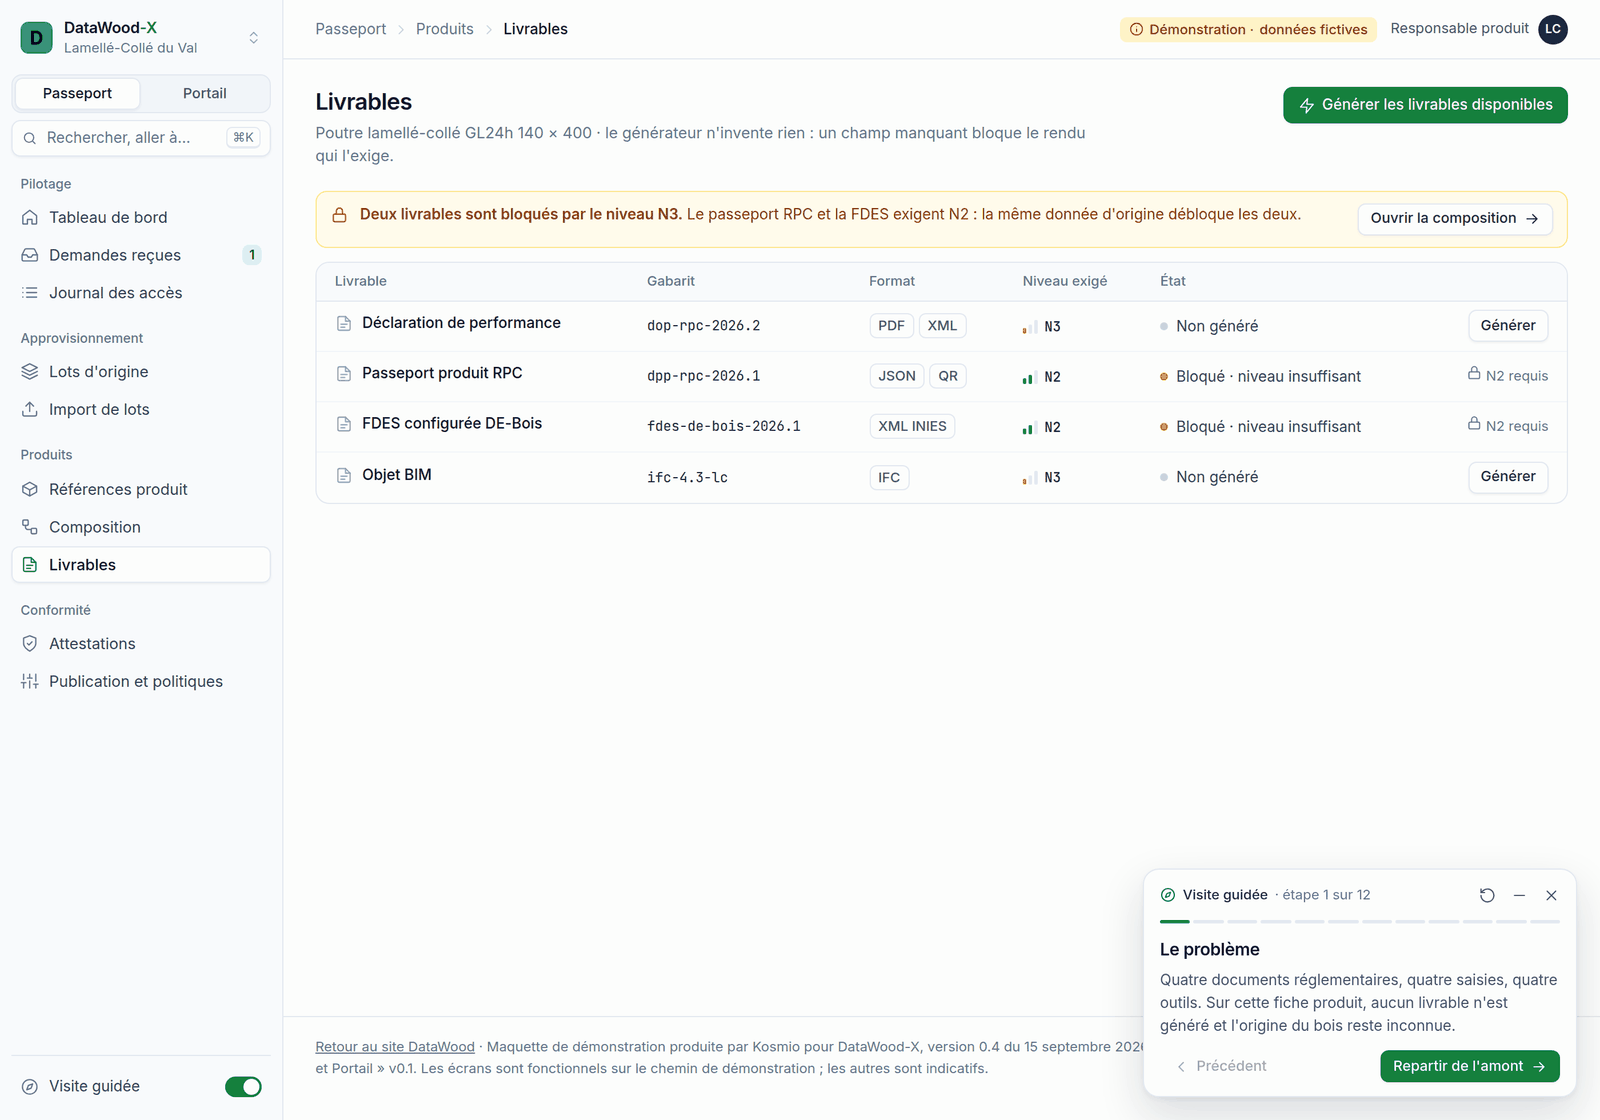
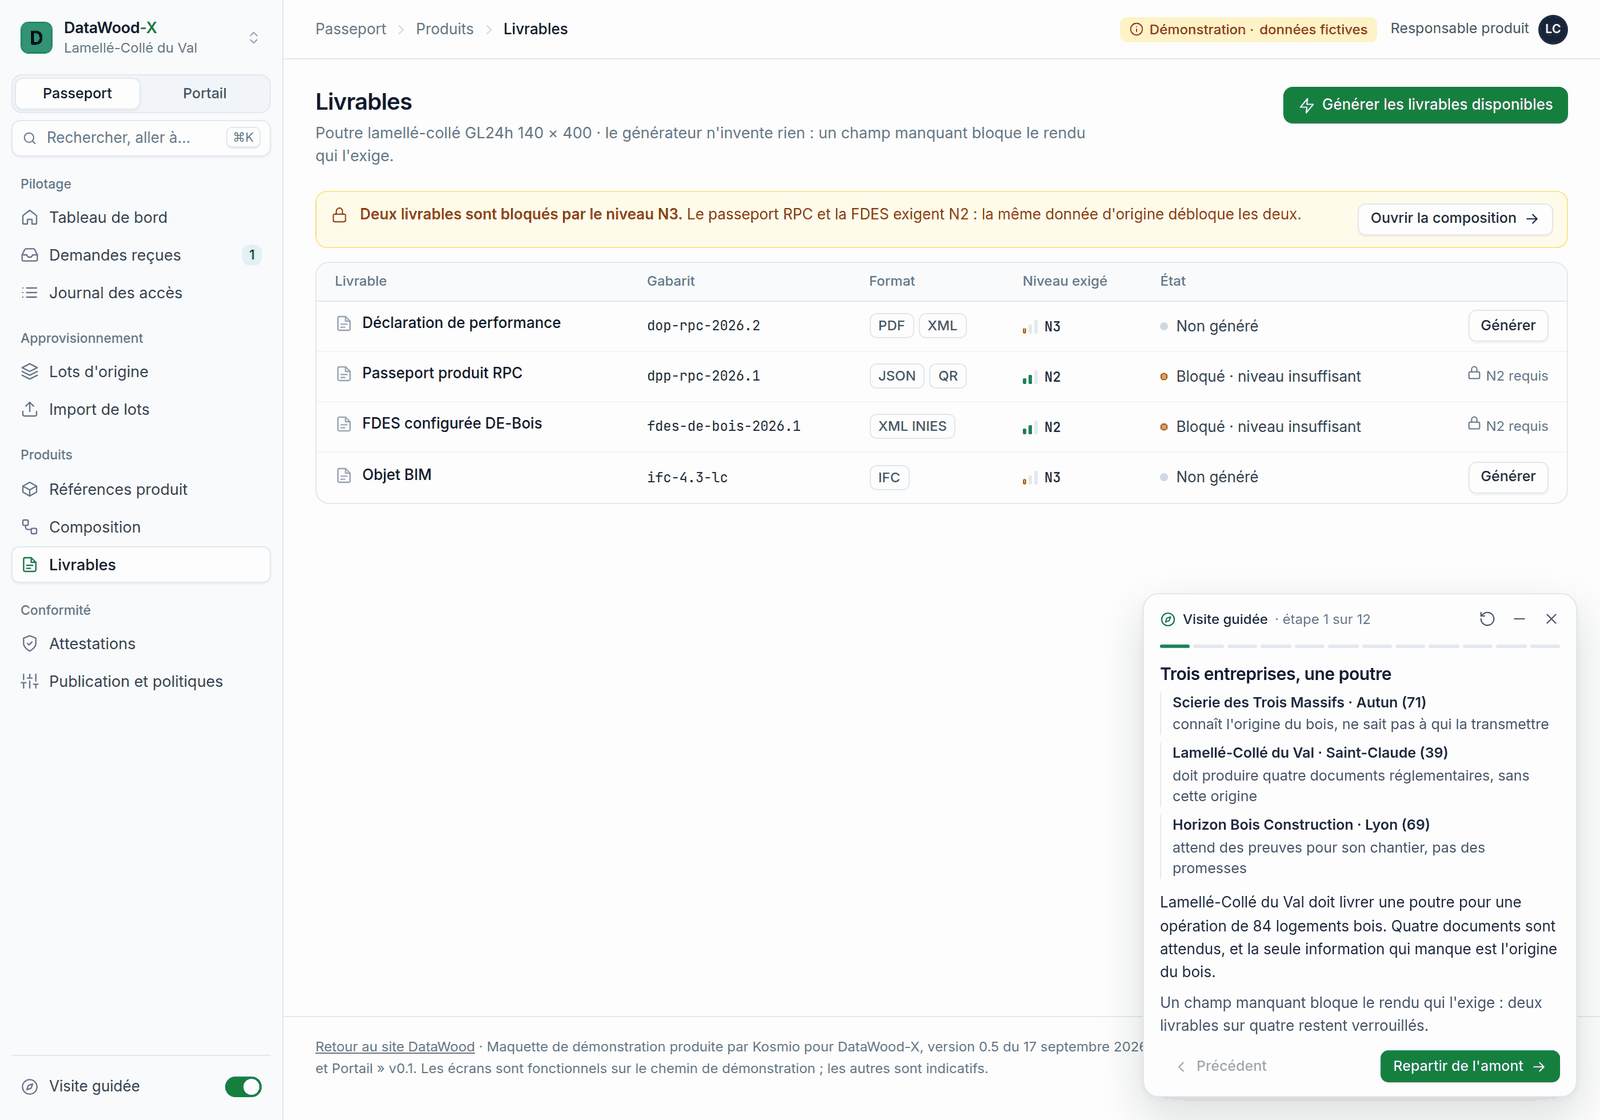
Maquette v0.5 : la visite guidee raconte une histoire
Chaque etape porte desormais une phrase de situation en plus de la phrase de mecanisme : ce que l entreprise cherche a faire, et pourquoi. Trois ajouts : une ouverture qui presente les trois entreprises et ce que chacune attend, une annonce explicite quand le scenario change d identite, et un recapitulatif en trois lignes a la derniere etape.

Premiere illustration de l article recapturee, c est la seule ou le panneau de visite est visible.

Claude-Session: https://claude.ai/code/session_01EpWU3hA9qwR9nfB4po22S2

Changed region(s): [[0.625, 0.5938, 0.9688, 0.9375], [0.7188, 0.5312, 0.8438, 0.5625]]

diff --git a/public/maquette/index.html b/public/maquette/index.html
@@ -459,6 +459,19 @@ h2.sec.sm{font-size:13px}
 .coach-b{padding:12px 14px 0;animation:rise var(--t3) var(--expo) both}
 .coach-b h2{font-size:15px;font-weight:600;letter-spacing:-.015em;margin:0 0 4px}
 .coach-b p{margin:0;font-size:13px;color:var(--s600);line-height:1.55}
+.coach-b p.story{color:var(--s800);margin:0 0 7px}
+.coach-switch{display:flex;align-items:center;gap:7px;margin:0 0 9px;padding:5px 9px;border-radius:8px;
+  background:var(--em50);color:var(--em9);font-size:12px}
+.coach-switch>.i{color:var(--em7);flex:none}
+.coach-switch b{font-weight:600}
+.coach-cast{list-style:none;margin:0 0 10px;padding:0;display:flex;flex-direction:column;gap:7px}
+.coach-cast li{display:flex;flex-direction:column;gap:1px;padding-left:10px;border-left:1px solid var(--s200);font-size:12.5px}
+.coach-cast b{font-weight:600;color:var(--s800)}
+.coach-cast span{color:var(--s600);line-height:1.45}
+.coach-recap{list-style:none;margin:10px 0 0;padding:0;display:flex;flex-direction:column;gap:6px}
+.coach-recap li{display:flex;gap:7px;font-size:12.5px;color:var(--s700);line-height:1.45}
+.coach-recap>li>.i{color:var(--em7);flex:none;margin-top:2px}
+.coach.compact .coach-cast,.coach.compact .coach-recap,.coach.compact p.story{display:none}
 .coach-do{display:flex;align-items:center;gap:8px;margin:12px 14px 0;padding:6px 6px 6px 10px;min-height:40px;border-radius:9px;background:var(--em50);
   border:1px solid var(--em200);color:var(--em9);font-size:12.5px;font-weight:500}
 .coach-do>.i{color:var(--em7)}
@@ -628,7 +641,7 @@ h2.sec.sm{font-size:13px}
       <div class="r" id="tbr"></div>
     </header>
     <main id="main" tabindex="-1"></main>
-    <p class="foot"><a href="/" style="color:inherit">Retour au site DataWood</a> · Maquette de démonstration produite par Kosmio pour DataWood-X, version 0.4 du 15 septembre 2026. Elle illustre les écrans spécifiés dans le document « Passeport et Portail » v0.1. Les écrans sont fonctionnels sur le chemin de démonstration ; les autres sont indicatifs.</p>
+    <p class="foot"><a href="/" style="color:inherit">Retour au site DataWood</a> · Maquette de démonstration produite par Kosmio pour DataWood-X, version 0.5 du 17 septembre 2026. Elle illustre les écrans spécifiés dans le document « Passeport et Portail » v0.1. Les écrans sont fonctionnels sur le chemin de démonstration ; les autres sont indicatifs.</p>
   </div>
 </div>
 
@@ -971,54 +984,76 @@ function toggleAll(on){
 
 /* ===================== scénario guidé ===================== */
 const TOUR = [
-  {t:"Le problème", acc:'fabricant', sc:'PA-06', key:null, anchor:null,
-   p:"Quatre documents réglementaires, quatre saisies, quatre outils. Sur cette fiche produit, aucun livrable n'est généré et l'origine du bois reste inconnue.",
+  {t:"Trois entreprises, une poutre", acc:'fabricant', sc:'PA-06', key:null, anchor:null,
+   cast:[
+     ["Scierie des Trois Massifs · Autun (71)", "connaît l'origine du bois, ne sait pas à qui la transmettre"],
+     ["Lamellé-Collé du Val · Saint-Claude (39)", "doit produire quatre documents réglementaires, sans cette origine"],
+     ["Horizon Bois Construction · Lyon (69)", "attend des preuves pour son chantier, pas des promesses"]
+   ],
+   story:"Lamellé-Collé du Val doit livrer une poutre pour une opération de 84 logements bois. Quatre documents sont attendus, et la seule information qui manque est l'origine du bois.",
+   p:"Un champ manquant bloque le rendu qui l'exige : deux livrables sur quatre restent verrouillés.",
    cta:"Repartir de l'amont"},
 
   {t:"La scierie importe son tableur", acc:'scierie', sc:'PA-03', key:'import', anchor:"#a-import",
-   p:"Douze lots dans un fichier de scierie. Le mappage de colonnes est mémorisé, et les fournisseurs déjà déclarés par d'autres adhérents sont reconnus : personne ne redécrit la forêt de ses voisins.",
+   story:"La Scierie des Trois Massifs sort de sa campagne d'automne. Douze lots à déclarer, et un client qui réclame déjà l'origine du bois qu'il achètera.",
+   p:"Le mappage de colonnes est mémorisé d'un import à l'autre, et les fournisseurs déjà déclarés par d'autres adhérents sont reconnus : personne ne redécrit la forêt de ses voisins.",
    do:"Lancez l'import des 12 lots"},
 
   {t:"Attester, puis publier un lot", acc:'scierie', sc:'PA-02', key:'publish', sel:'L-0421',
    anchor:() => S.ddsLots.includes('L-0421') ? "#a-publish" : "#a-dds",
-   p:"Le lot L-0421 porte ses parcelles géolocalisées, son essence et son volume. On demande l'attestation de diligence raisonnée, puis on le publie sous la politique « clients sous contrat ».",
+   story:"La scierie sait d'où vient le lot L-0421 : ses parcelles sont dans son logiciel forestier. Reste à le prouver à un client sans lui ouvrir son carnet d'adresses.",
+   p:"L'attestation de diligence raisonnée est signée, puis le lot est publié sous une politique « clients sous contrat ».",
    do:() => S.ddsLots.includes('L-0421') ? "Publiez L-0421 au catalogue" : "Demandez l'attestation du lot L-0421"},
 
   {t:"Le fabricant hérite de l'origine", acc:'fabricant', sc:'PA-05', key:'attach',
    anchor:() => S.accessPhase === 3 ? "#a-attach" : "#a-access",
-   p:"Le produit est au niveau N3, sans origine. L'accès aux lots se négocie par contrat, puis ils se rattachent au composant lamelles : le niveau passe à N2 sans ressaisir une seule coordonnée.",
+   story:"Chez Lamellé-Collé du Val, le responsable produit a la fiche technique de sa poutre. L'origine, elle, est chez son scieur, à deux cents kilomètres.",
+   p:"L'accès aux lots se négocie par contrat, puis ils se rattachent au composant lamelles : le niveau passe de N3 à N2 sans ressaisir une seule coordonnée.",
    do:() => S.accessPhase === 3 ? "Rattachez les lots au composant lamelles" : "Demandez l'accès aux lots de la scierie"},
 
   {t:"Une donnée, quatre livrables", acc:'fabricant', sc:'PA-06', key:'gen', anchor:"#a-gen",
+   story:"Le chantier attend une déclaration de performance, un passeport produit, une fiche environnementale et un objet BIM. Tous décrivent la même poutre.",
    p:"Le niveau N2 débloque le passeport RPC et la FDES, refusés jusque-là faute d'origine. Les quatre documents se génèrent depuis la même fiche, chacun signé et horodaté.",
    do:"Générez les livrables disponibles"},
 
   {t:"Une correction se propage", acc:'fabricant', sc:'PA-06', key:'change', anchor:"#a-change",
-   p:"La classe de résistance change. Les rendus qui en dépendent passent « à régénérer » et les clients sous contrat actif sont prévenus, sans qu'on ait à les appeler.",
+   story:"Trois jours plus tard, la classe de résistance est corrigée. Le client a déjà les documents entre les mains.",
+   p:"Les rendus qui dépendent de cette valeur passent « à régénérer » et les clients sous contrat actif sont prévenus, sans qu'on ait à les appeler.",
    do:"Modifiez la classe de résistance"},
 
   {t:"Répondre à une campagne", acc:'fabricant', sc:'PA-09', key:'camp', anchor:"#a-camp",
-   p:"Horizon Bois Construction a ouvert une campagne sur l'opération Rive Gauche. Y répondre, c'est autoriser la lecture de rendus qui existent déjà, sous le contrat proposé.",
+   story:"Horizon Bois Construction consulte ses fournisseurs bois pour l'opération Rive Gauche. Le fabricant peut répondre avec ce qu'il vient de produire.",
+   p:"Y répondre, c'est autoriser la lecture de rendus qui existent déjà, sous le contrat proposé : ni courriel, ni pièce jointe.",
    do:"Acceptez et livrez"},
 
   {t:"La chaîne d'origine", acc:'constructeur', sc:'PO-03', key:null, anchor:null,
-   p:"Côté Portail, le passeport remonte jusqu'au massif. Chaque information porte sa qualification : vérifiée par signature, déclarée par le fabricant, ou héritée d'un maillon amont nommé.",
+   story:"Côté donneur d'ordre, le responsable conformité ouvre le passeport reçu. Il doit savoir sur quoi il peut engager sa propre responsabilité.",
+   p:"Le passeport remonte jusqu'au massif, et chaque information porte sa qualification : vérifiée par signature, déclarée par le fabricant, ou héritée d'un maillon amont nommé.",
    cta:"Vérifier les preuves"},
 
   {t:"La preuve se vérifie", acc:'constructeur', sc:'PO-04', key:'verify', anchor:"#a-verify",
-   p:"Cinq contrôles sur l'attestation de diligence raisonnée. Quatre se font hors ligne, sans solliciter l'émetteur ; seule la révocation exige un accès réseau.",
+   story:"Un contrôle peut tomber deux ans après la livraison, quand le fournisseur aura changé d'outil et l'interlocuteur de poste.",
+   p:"Quatre contrôles sur cinq se font hors ligne, sur la pièce elle-même, sans solliciter l'émetteur ; seule la révocation exige un accès réseau.",
    do:"Lancez la vérification"},
 
   {t:"La donnée arrive dans les outils", acc:'constructeur', sc:'PO-05', key:'export', anchor:"#a-export",
-   p:"L'export alimente l'outil de conception et la maquette numérique. Les champs exclus par la politique du fabricant sont listés avec leur motif, jamais retirés en silence.",
+   story:"Une donnée qui reste dans un portail ne sert à personne. Elle doit rejoindre l'outil de conception et la maquette numérique du projet.",
+   p:"Les champs exclus par la politique du fabricant sont listés avec leur motif, jamais retirés en silence.",
    do:"Lancez l'export"},
 
   {t:"Le fabricant garde la main", acc:'fabricant', sc:'PA-08', key:'geo', anchor:"#a-geo",
-   p:"La géolocalisation détaillée est facultative : l'attestation suffit à la conformité. Coupez sa transmission, puis ouvrez le passeport côté Portail pour voir l'exclusion.",
+   story:"Retour chez le fabricant. Les coordonnées précises de ses parcelles d'approvisionnement, il préfère les garder pour lui : c'est son sourcing.",
+   p:"La géolocalisation détaillée est facultative, l'attestation suffit à la conformité. Coupez sa transmission, puis ouvrez le passeport côté Portail pour voir l'exclusion.",
    do:"Coupez la géolocalisation détaillée"},
 
   {t:"Tout est journalisé", acc:'fabricant', sc:'PA-12', key:null, anchor:null,
-   p:"Qui a consulté quoi, quand, sous quel contrat. C'est cet écran qui rend la souveraineté vérifiable plutôt qu'affirmée.",
+   story:"Reste la question que pose tout dirigeant avant d'adhérer : qui a vu mes données, et sous quelle autorisation.",
+   p:"Le journal est tenu par l'infrastructure, pas par l'application : un accès hors contrat ne peut pas y figurer.",
+   recap:[
+     "La scierie a déclaré ses lots une fois, et choisi ce qu'elle transmet.",
+     "Le fabricant a produit quatre documents sans ressaisir l'origine, et propagé une correction en une action.",
+     "Le donneur d'ordre a reçu des informations qualifiées, vérifiables hors ligne, versées dans ses outils."
+   ],
    cta:"Terminer la visite"}
 ];
 
@@ -1737,6 +1772,14 @@ function coachHTML(){
   let doBox = '';
   if(S.stepDone) doBox = `<div class="coach-do ok appear" data-k="done-${S.step}">${I('check','s')}<span>Action effectuée · étape suivante</span></div>`;
   else if(sel) doBox = `<div class="coach-do">${I('zap','s')}<span>${val(t.do)}</span>${B("Montrer", {cls:'sm g', on:'showTarget()', dis:!target})}</div>`;
+  const prev = S.step > 0 ? TOUR[S.step - 1] : null;
+  const switchBox = prev && prev.acc !== t.acc
+    ? `<div class="coach-switch">${I('factory','s')}<span>Vous passez chez <b>${esc(ACCOUNTS[t.acc].nom)}</b></span></div>` : '';
+  const castBox = t.cast
+    ? `<ul class="coach-cast">${t.cast.map(x => `<li><b>${esc(x[0])}</b><span>${esc(x[1])}</span></li>`).join("")}</ul>` : '';
+  const storyBox = t.story ? `<p class="story">${t.story}</p>` : '';
+  const recapBox = t.recap
+    ? `<ul class="coach-recap">${t.recap.map(x => `<li>${I('check','s')}<span>${esc(x)}</span></li>`).join("")}</ul>` : '';
   const last = S.step === n - 1;
   const next = sel && !S.stepDone
     ? B("Étape suivante", {cls:'sm', iconR:'arrowr', on:'stepGo(1)', title:"Passer cette étape : son résultat est appliqué automatiquement"})
@@ -1749,7 +1792,7 @@ function coachHTML(){
         ${B(I('x','s'), {cls:'g sm ic', aria:'Quitter la visite', title:'Quitter', on:'setGuide(false)'})}
       </div></div>
     <div class="prog" aria-hidden="true">${TOUR.map((_, i) => `<i class="${i < S.step ? 'on' : i === S.step ? 'now' : ''}"></i>`).join("")}</div>
-    <div class="coach-b" data-k="cb-${S.step}"><h2>${esc(t.t)}</h2><p>${t.p}</p></div>
+    <div class="coach-b" data-k="cb-${S.step}"><h2>${esc(t.t)}</h2>${switchBox}${castBox}${storyBox}<p>${t.p}</p>${recapBox}</div>
     ${doBox}
     <div class="coach-f">${B("Précédent", {cls:'sm g', icon:'chevl', on:'stepGo(-1)', dis:S.step === 0})}<div class="r">${next}</div></div>
   </section>`;
